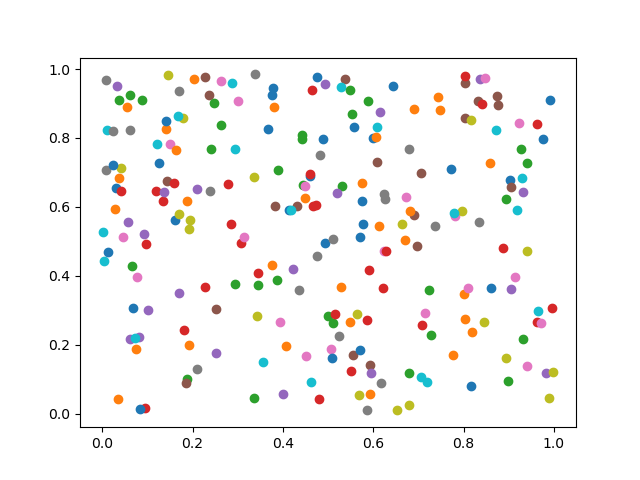
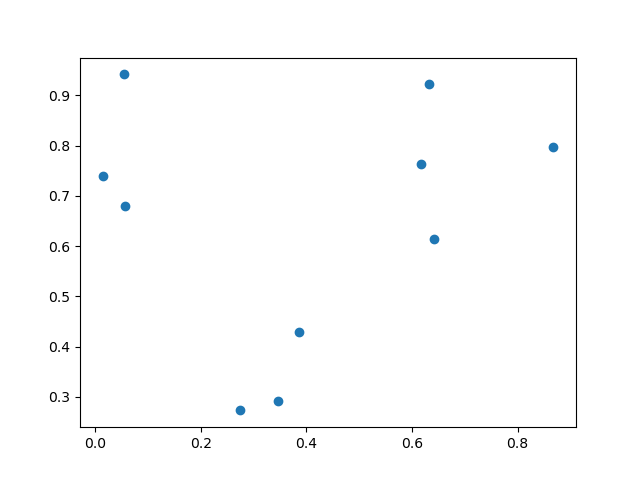
Updating plot in AJAX

diff --git a/demos/templates/demos/show_plot.html b/demos/templates/demos/show_plot.html
@@ -12,11 +12,31 @@
 
     <div class="main-text">
         {% if image_url %}
-            <img src="{{ image_url }}" alt="Generated plot">
+            <img src="{{ image_url }}" alt="Generated plot" id="generated-plot">
         {% else %}
             <p>No image to show.</p>
         {% endif %}
+        <br><br>
+        <button id="refresh-button">Generate new plot</button>
     </div>
+    
+    <script>
+        document.getElementById("refresh-button").addEventListener("click", function() {
+            fetch("{% url 'demos:generate_plot_ajax' %}", {
+                method: "POST",
+                headers: {
+                    'X-CSRFToken': '{{ csrf_token }}',
+                    'Accept': 'application/json'
+                }
+            })
+            .then(response => response.json())
+            .then(data => {
+                const img = document.getElementById("generated-plot");
+                img.src = data.image_url + '?t=' + new Date().getTime(); // bust cache
+            });
+        });
+    </script>
+    
 </div>
 
 {% endblock %}

diff --git a/demos/views.py b/demos/views.py
@@ -8,7 +8,7 @@ from matplotlib import pyplot as plt
 from django.conf import settings
 from django.shortcuts import render
 from .forms import CSVUploadForm
-from django.http import HttpResponse
+from django.http import HttpResponse, JsonResponse
 
 def index(request):
     return HttpResponse("Welcome to Project 1!")
@@ -52,15 +52,28 @@ def upload_csv(request):
     })
 
 
-
-def generate_plot(request):
-    filename = 'myplot.png'
+def save_plot(filename):
     image_path = os.path.join(settings.MEDIA_ROOT, filename)
     
     x = np.random.rand(10)
     y = np.random.rand(10)
+    plt.figure()
     plt.scatter(x, y)
     plt.savefig(image_path)
     
     image_url = settings.MEDIA_URL + filename
+    return image_url
+
+
+
+def generate_plot(request):
+    filename = 'myplot.png'
+    image_url = save_plot(filename)
     return render(request, 'demos/show_plot.html', {'image_url': image_url})
+
+
+def generate_plot_ajax(request):
+    if request.method == "POST":
+        filename = 'myplot.png'
+        image_url = save_plot(filename)
+        return JsonResponse({'image_url': image_url})

diff --git a/demos/urls.py b/demos/urls.py
@@ -7,5 +7,6 @@ urlpatterns = [
     path('', views.index, name='index'),
     path('upload/', views.upload_csv, name='upload'), 
     path('plot/', views.generate_plot, name='plot'), 
+    path('generate-plot/', views.generate_plot_ajax, name='generate_plot_ajax'),
 ]
 
